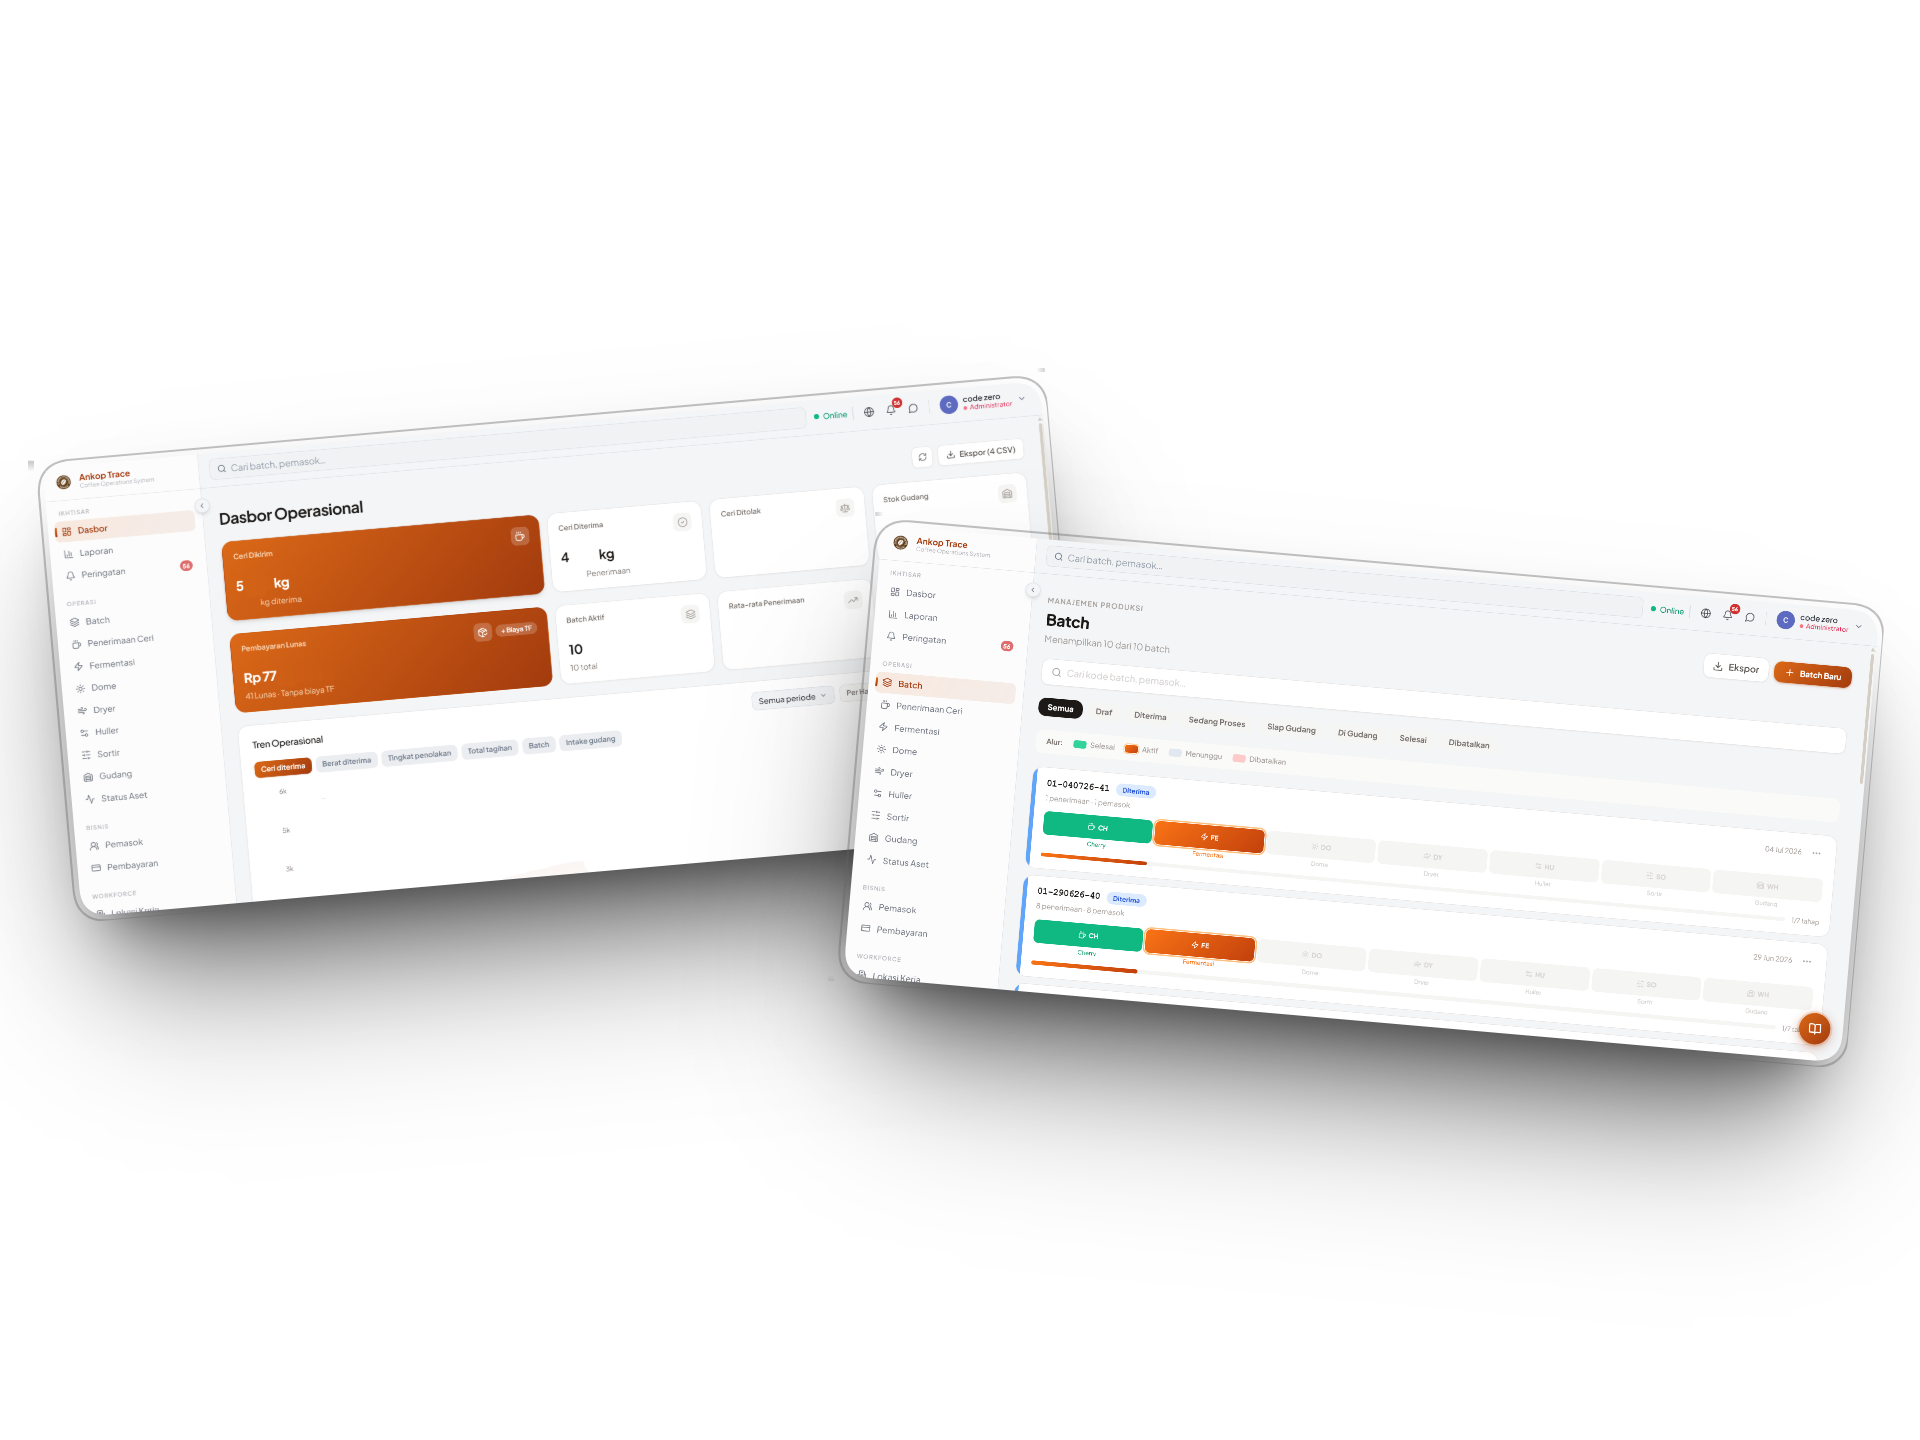
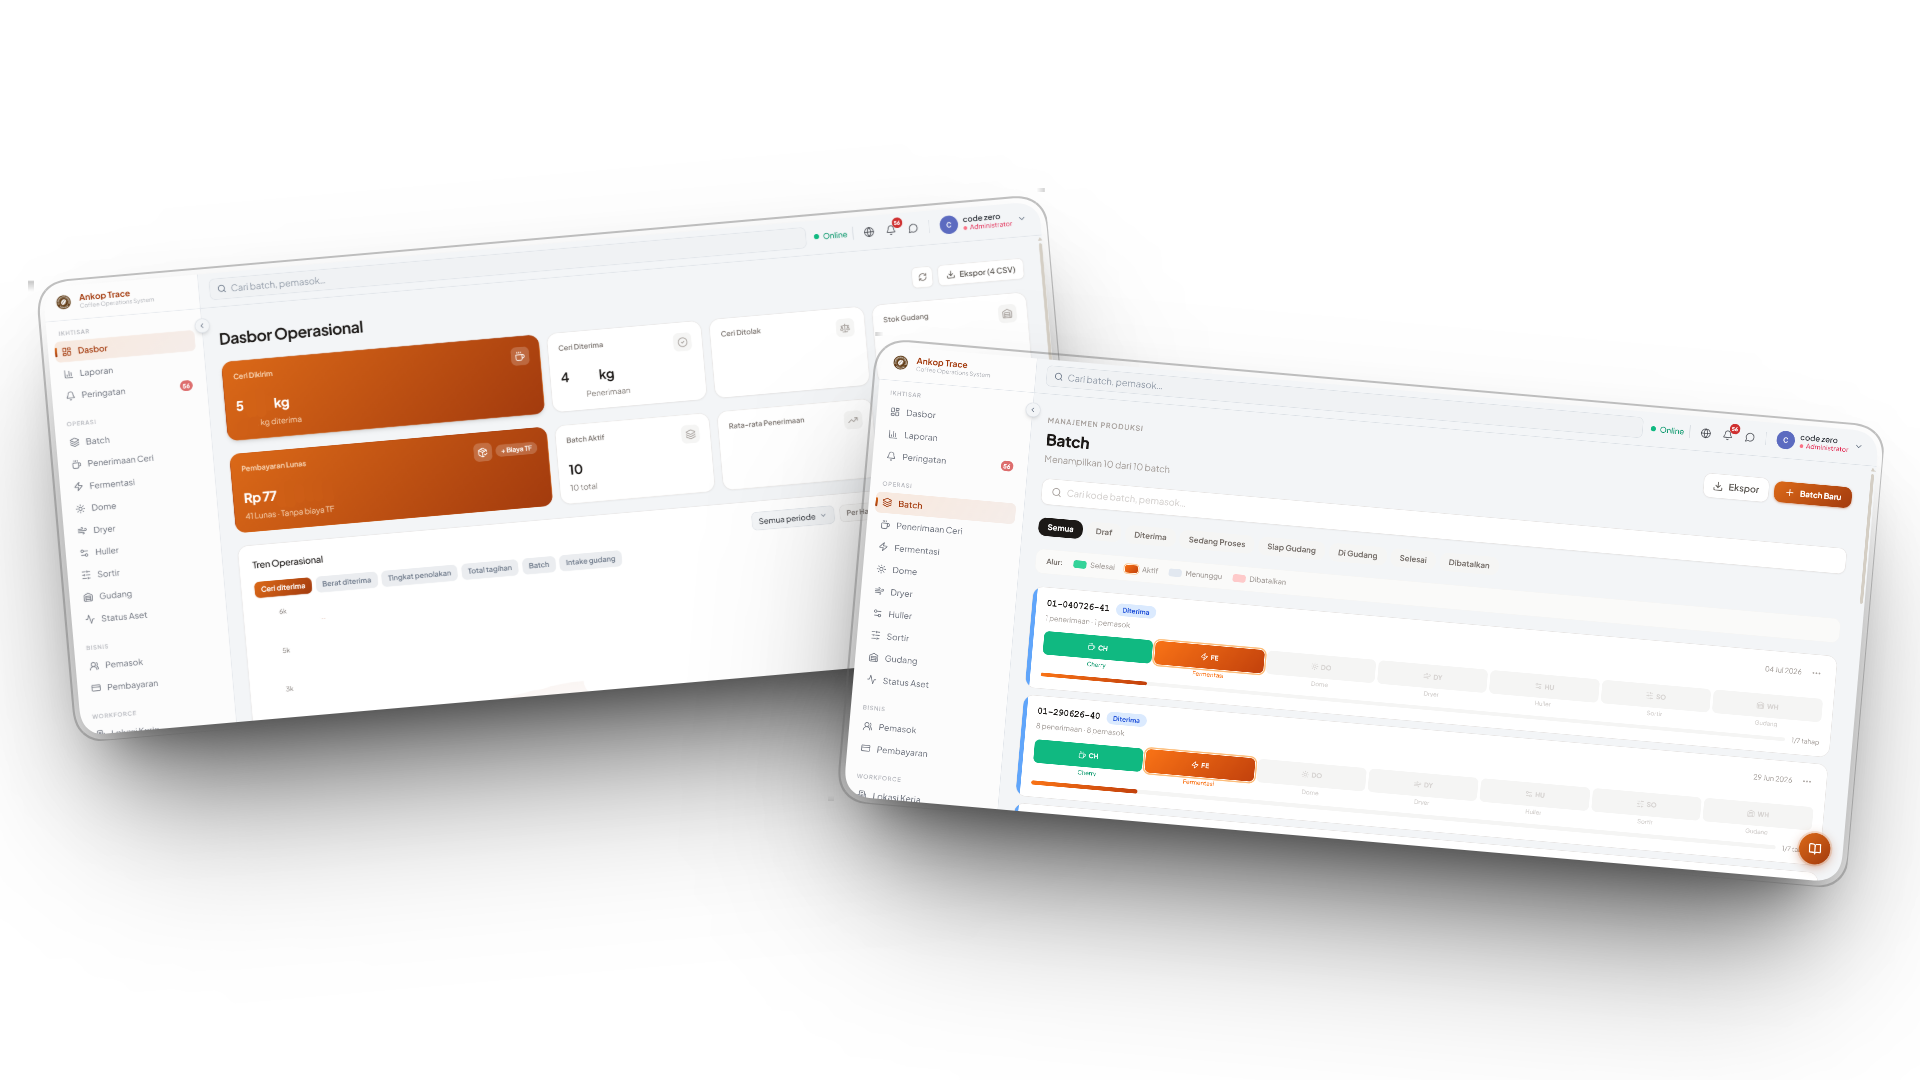
Stop cropping product mockups
object-cover with any fixed ratio clips one mockup or another, since each has a
different composition height; loosening 2/1 to aspect-video only moved the
problem. Render at the file's own ratio instead, and tighten the gap so the
transparent padding each PNG carries does not stack up.

diff --git a/components/ui/photo-gallery.tsx b/components/ui/photo-gallery.tsx
@@ -181,11 +181,18 @@ export function PhotoGallery({
  * mockup-nya sudah membawa bayangannya sendiri dan akan bertabrakan kalau
  * ditumpuk lagi.
  *
- * `aspect-video` (16/9) + `object-cover` memangkas pita kosong di atas–bawah PNG
- * 4:3-nya (menyisakan 75% tinggi asli); isinya di tengah, jadi yang terpangkas
- * memang cuma ruang kosong. Sempat dicoba `2/1`, tapi mockup yang komposisinya
- * paling tinggi mulai terpotong — 16/9 memberi margin aman.
- * Diklik → membuka gambar utuh (tanpa pangkas) di modal yang sama.
+ * **TIDAK dipotong sama sekali** — rasio aslinya dibiarkan apa adanya.
+ *
+ * Sebelumnya sempat dipangkas `object-cover` (dicoba `2/1` lalu `aspect-video`)
+ * untuk membuang pita kosong di atas–bawah PNG-nya. Dua-duanya salah: tiap
+ * mockup punya tinggi komposisi yang berbeda, jadi rasio tetap APA PUN akan
+ * memotong salah satunya — `mock2` Bisasinema terbukti terpotong di 16/9.
+ * Memotong gambar yang isinya justru mau dipamerkan adalah cacat, sementara
+ * ruang kosongnya cuma soal rasa. Karena PNG-nya transparan, ruang itu pun
+ * tidak terlihat sebagai kotak kosong.
+ *
+ * Konsekuensinya komponen ini menerima mockup dengan rasio apa pun tanpa perlu
+ * disetel ulang.
  */
 export function ScreenshotStrip({
   screenshots,
@@ -203,22 +210,27 @@ export function ScreenshotStrip({
 
   return (
     <>
-      <ul className={cn("space-y-4", className)}>
+      {/* Pita kosong bawaan tiap PNG saling menempel kalau jaraknya normal,
+          jadi jaraknya dirapatkan — ruang napasnya sudah ada di dalam gambar. */}
+      <ul className={cn("-space-y-6 md:-space-y-10", className)}>
         {screenshots.map((shot, index) => (
           <li key={shot.src}>
             <button
               type="button"
               onClick={() => setOpenIndex(index)}
               aria-label={`Open screenshot: ${shot.alt}`}
-              className="focus-visible:ring-ring block w-full cursor-zoom-in rounded-(--radius) outline-none focus-visible:ring-2 focus-visible:ring-offset-4"
+              className="focus-visible:ring-ring block w-full cursor-zoom-in rounded-(--radius) outline-none focus-visible:ring-2"
             >
+              {/* `width`/`height` = ukuran INTRINSIK berkasnya, dipakai
+                  next/image untuk memesan ruang; `h-auto` membuat tingginya
+                  mengikuti rasio asli berapa pun itu. */}
               <Image
                 src={`/images/${shot.src}`}
                 alt={shot.alt}
                 width={1920}
                 height={1440}
                 sizes="(max-width: 900px) 100vw, 880px"
-                className="aspect-video w-full object-cover"
+                className="h-auto w-full"
               />
             </button>
           </li>

diff --git a/PROGRESS_LOG.md b/PROGRESS_LOG.md
@@ -27,6 +27,14 @@
 
 <!-- ENTRI BARU DI ATAS GARIS INI -->
 
+### [2026-07-28 04:45] — Perbaikan — Mockup produk berhenti dipotong
+**Status:** ✅ selesai (build + eslint + tsc bersih; **belum di-deploy**)
+**Pemicu:** Lintang mengirim screenshot: `mock2` Bisasinema masih terpotong.
+**Akar masalahnya (dan koreksi atas keputusan saya sendiri):** saya memakai `object-cover` untuk merapikan pita kosong di atas–bawah PNG mockup, lalu ketika terpotong saya cuma melonggarkan rasionya (2/1 → `aspect-video`). Itu menambal gejalanya, bukan sebabnya. Rasio tetap APA PUN akan salah, karena tiap mockup punya tinggi komposisi berbeda — jadi selalu ada satu yang kena potong.
+**Perbaikannya:** pemotongan dibuang sepenuhnya. Gambar memakai rasio aslinya (`h-auto w-full`, tanpa `aspect-*`, tanpa `object-*`). Memotong gambar yang justru mau dipamerkan itu cacat; ruang kosongnya cuma soal rasa — dan karena PNG-nya transparan, ruang itu tidak terlihat sebagai kotak kosong. Jarak antar gambar dirapatkan (`-space-y-6`) supaya pita kosong bawaan tiap berkas tidak menumpuk.
+**Efek sampingnya bagus:** komponennya sekarang menerima mockup dengan rasio apa pun tanpa perlu disetel ulang — persis yang Lintang minta ("buat lebih flexible").
+**Berikutnya:** menunggu instruksi.
+
 ### [2026-07-28 04:20] — Di luar sprint — Mockup produk terpasang + GitHub AKHIRNYA tersambung
 **Status:** ✅ selesai (build + eslint + tsc bersih; **belum di-deploy**)
 **Selesai:**
